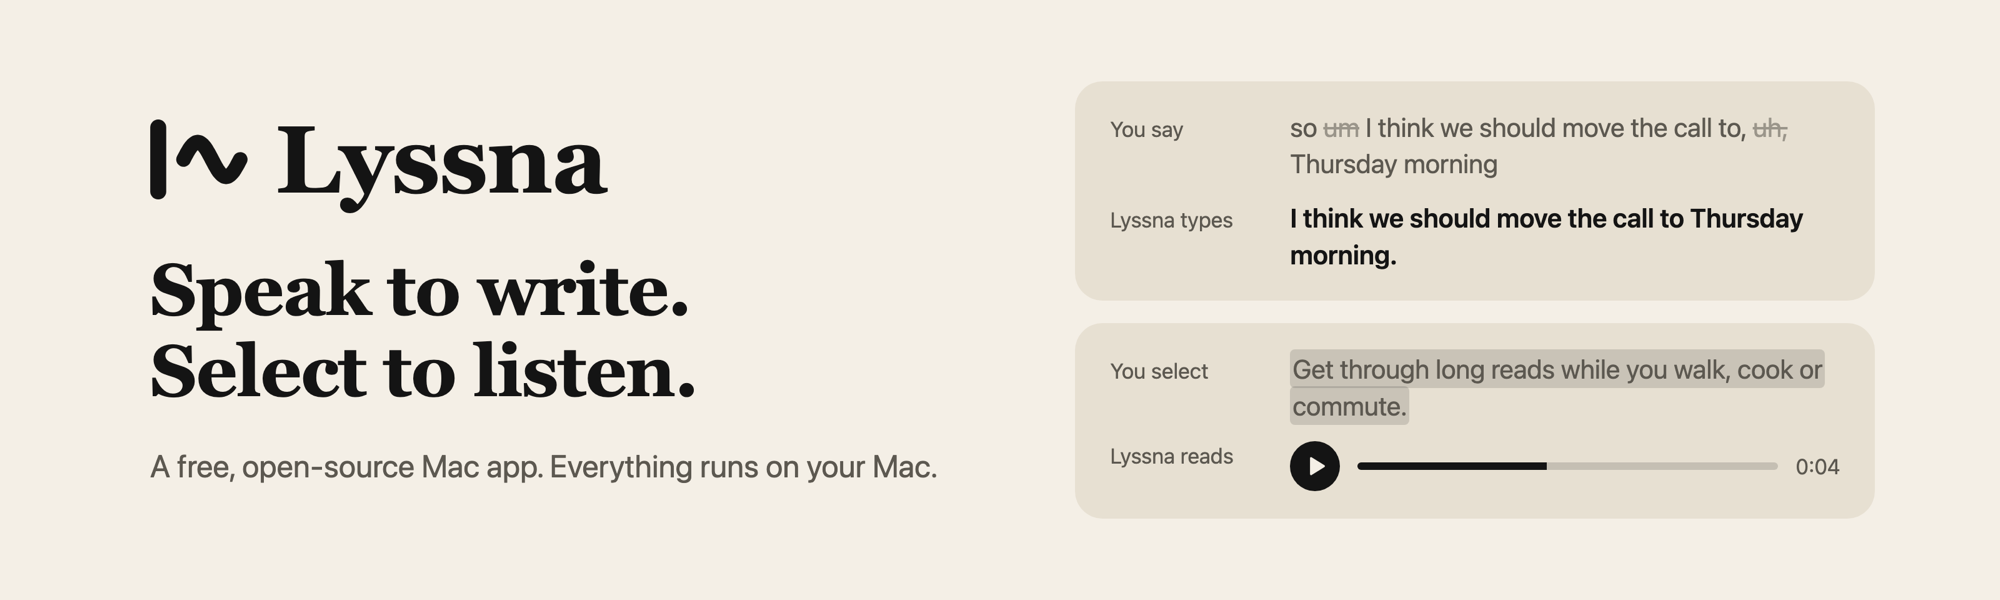
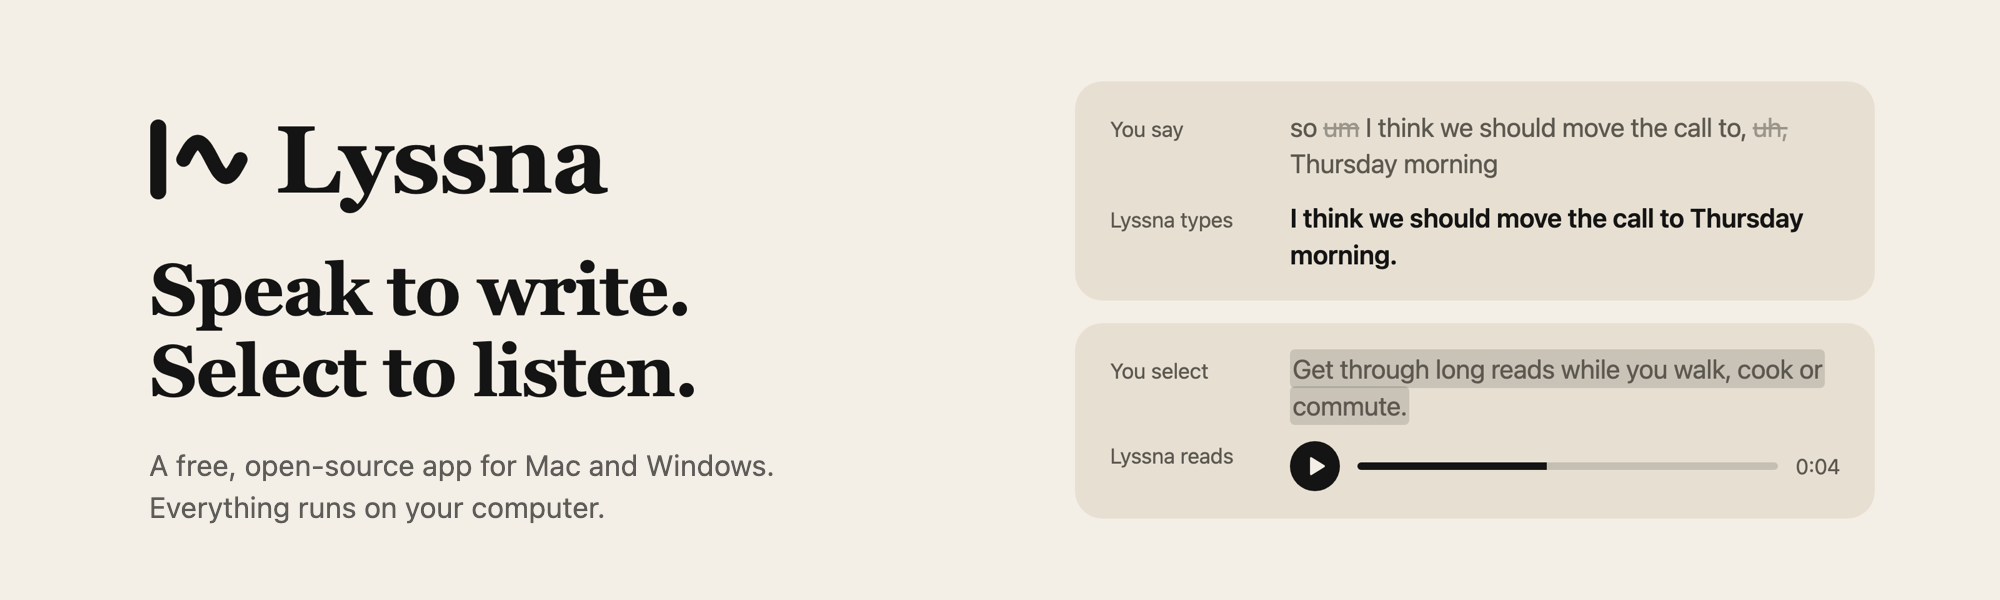
README: header and code tour for Mac and Windows

Changed region(s): [[0.062, 0.75, 0.465, 0.81], [0.062, 0.84, 0.31, 0.87]]

diff --git a/README.md b/README.md
@@ -1,5 +1,5 @@
 <p align="center">
-  <img src="docs/images/header.png" alt="Lyssna. Speak to write. Select to listen. A free, open-source Mac app. Everything runs on your Mac.">
+  <img src="docs/images/header.png" alt="Lyssna. Speak to write. Select to listen. A free, open-source app for Mac and Windows. Everything runs on your computer.">
 </p>
 
 <p align="center">
@@ -192,9 +192,9 @@ The Windows app is built on Windows: `uv sync --group build`, then `uv run pytho
 <summary>A short tour of the code</summary>
 
 ```
-cli.py ──socket──▶ controller.py ◀── legacy/app.py (menu bar, hotkeys, mouse gestures)
+cli.py ──socket──▶ controller.py ◀── app.py (menu bar or tray, hotkeys, mouse gestures)
                         │                │
-                     player.py        legacy/ui/ (selection_button, mini_player, panel)
+                     player.py        ui/ (selection_button, mini_player, panel)
                         │
           providers/ + cache.py + keystore.py
 ```
@@ -203,7 +203,7 @@ cli.py ──socket──▶ controller.py ◀── legacy/app.py (menu bar, ho
 - `mac/events.py` has the keyboard tap for hotkeys and a listen-only mouse tap that spots selection gestures. `selection.py` shows the play button only on proof that text was selected: a new selection reported through Accessibility, or a copy on select.
 - `mac/capture.py` reads the selection through the Accessibility API first. Only where an app does not expose it does it send Command-C, then put the whole previous clipboard back.
 - `text.py` strips markdown, code fences, URLs, tables and hashtags, then splits the text into sentences.
-- `player.py` synthesizes up to four sentences ahead with two parallel requests, so stopping early does not pay for the rest, and plays them with AVAudioPlayer. Speed changes are time-stretched with pitch preserved.
+- `player.py` synthesizes up to four sentences ahead with two parallel requests, so stopping early does not pay for the rest, and plays them with AVAudioPlayer on the Mac (`mac/audio.py`) and Qt's audio output on Windows (`win/audio.py`). Speed changes are time-stretched with pitch preserved.
 - `providers/` has one small class per voice provider. `providers/kokoro.py` runs the local voice and `download.py` fetches its model files once, with pinned hashes.
 - `cache.py` keeps synthesized audio in `~/Library/Caches/Lyssna` (`%LOCALAPPDATA%\Lyssna\Cache` on Windows), so reading the same text again is free and instant.
 - `dictation/` turns speech into text: `recorder.py` records in memory, `pipeline.py` runs a speech engine (`transcribers/`) and a cleanup engine (`cleaners/`), `insert.py` pastes the result, `vocabulary.py` and `learn.py` keep the dictionary, and `history.py` keeps the history.
